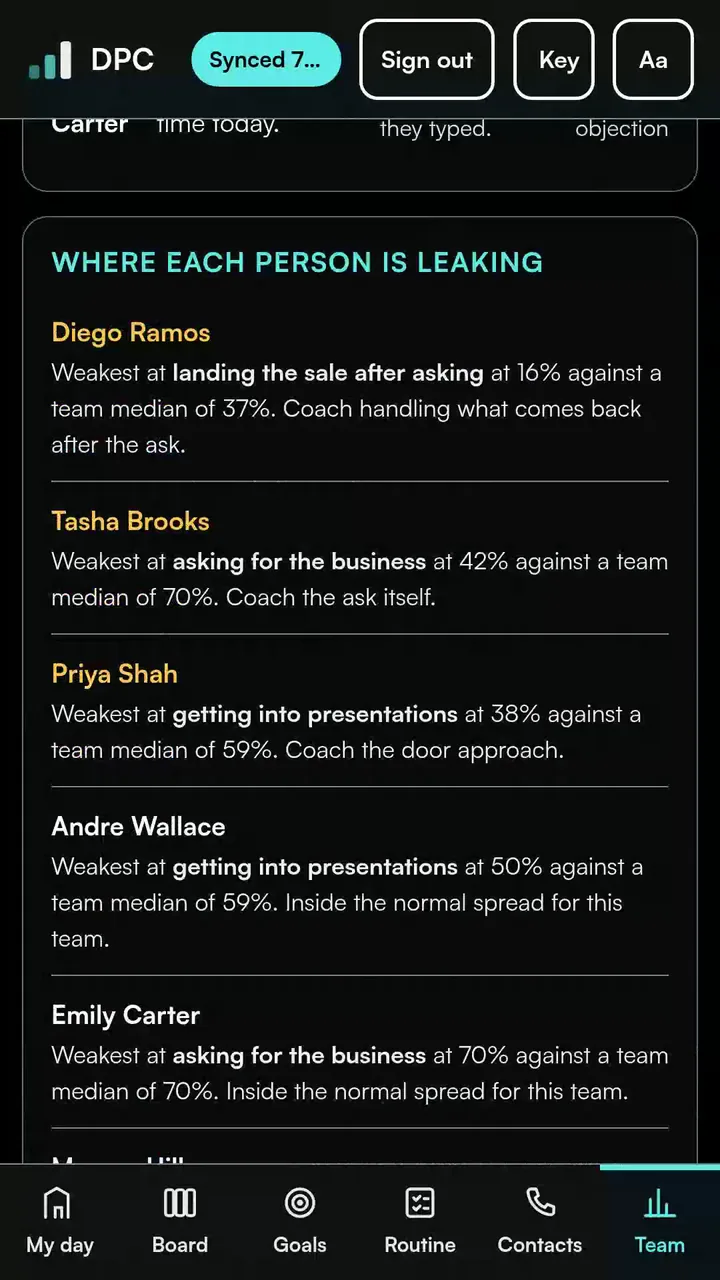
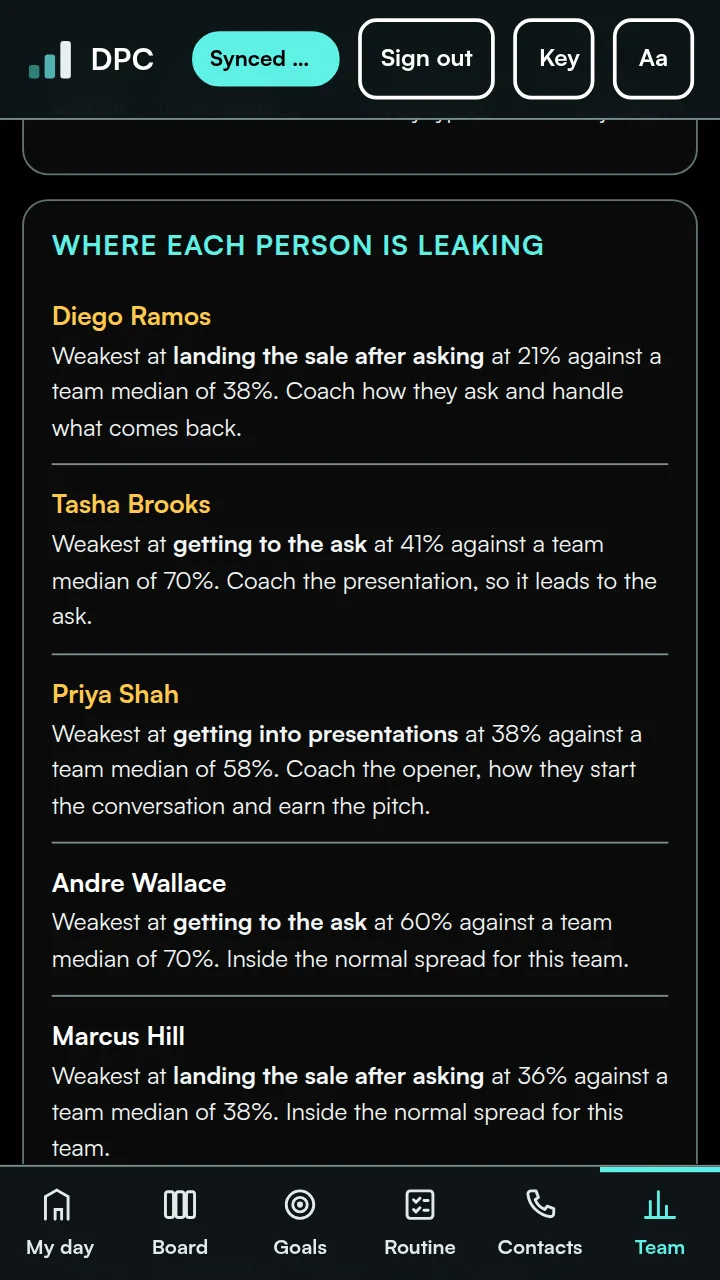
Accurate callback alert wording, new leaks screenshot

diff --git a/index.html b/index.html
@@ -56,7 +56,7 @@
       </div>
     </div>
     <div class="hero-shots">
-      <figure class="shot shot-back"><img src="./assets/app/mgr_leaks.webp" alt="Manager screen listing where each rep is leaking, compared to the team median, with what to coach" width="720" height="1280"><figcaption>Manager</figcaption></figure>
+      <figure class="shot shot-back"><img src="./assets/app/mgr_leaks.webp?v=2" alt="Manager screen listing where each rep is leaking, compared to the team median, with what to coach" width="720" height="1280"><figcaption>Manager</figcaption></figure>
       <figure class="shot shot-front"><img src="./assets/app/rep_today.webp" alt="Rep screen with today's counters for made contact, presentation, close and sale" width="720" height="1280"><figcaption>Rep</figcaption></figure>
     </div>
   </div>
@@ -172,10 +172,10 @@
   <div class="wrap split">
     <div class="split-txt">
       <p class="eyebrow">Callbacks and follow ups</p>
-      <h2>Told to come back at 6? It makes sure they do.</h2>
+      <h2>Told to come back at 6? It reminds them and tells them when to head back.</h2>
       <p class="lede">For door to door teams, a callback is a sale waiting to happen. Reps pin the spot, set the time and add a name and number in a few taps.</p>
       <ul class="ticks">
-        <li>An alert 10 minutes before and at the time, even with the app closed</li>
+        <li>With alerts turned on, an alert 10 minutes before and at the time</li>
         <li>A leave by alert based on how far away they are</li>
         <li>A warning when they are too far to make it on time</li>
         <li>One tap fills in an on my way text to the homeowner</li>
@@ -229,7 +229,7 @@
     </div>
     <div class="mgr-grid">
       <figure class="mshot"><img src="./assets/app/mgr_funnel.webp" alt="Team funnel with active reps, D, P, C, S and D per sale" width="720" height="1280" decoding="async"><figcaption><b>Team funnel</b>Every step for the whole team, with D per sale.</figcaption></figure>
-      <figure class="mshot"><img src="./assets/app/mgr_leaks.webp" alt="Where each person is leaking, with what to coach" width="720" height="1280" decoding="async"><figcaption><b>Where each person is leaking</b>Their weakest step, against the team median, with what to coach.</figcaption></figure>
+      <figure class="mshot"><img src="./assets/app/mgr_leaks.webp?v=2" alt="Where each person is leaking, with what to coach" width="720" height="1280" decoding="async"><figcaption><b>Where each person is leaking</b>Their weakest step, against the team median, with what to coach.</figcaption></figure>
       <figure class="mshot"><img src="./assets/app/mgr_asked.webp" alt="What reps asked the game board today, with topic counts" width="720" height="1280" decoding="async"><figcaption><b>What reps asked the board</b>Who looked for help today, and on what topics.</figcaption></figure>
       <figure class="mshot"><img src="./assets/app/mgr_goals.webp" alt="Team goals: reps behind on pace at the top" width="720" height="1280" decoding="async"><figcaption><b>Goals and routines</b>Who is behind on pace, whose goals need work, who finished their routine.</figcaption></figure>
       <figure class="mshot"><img src="./assets/app/mgr_alerts.webp" alt="Team alerts at 8:30 PM and a Sunday noon roundup, and reps ranked" width="720" height="1280" decoding="async"><figcaption><b>Alerts</b>8:30 PM when reps are under your daily standard, plus a Sunday noon roundup.</figcaption></figure>
@@ -283,7 +283,7 @@
       <h2 class="rv d1">One app for the rep, the manager and the owner.</h2>
     </div>
     <div class="roles">
-      <article class="role rv"><h3>Reps</h3><ul><li>One tap per conversation, offline</li><li>Sees where their own day is breaking down</li><li>Game board search: in bounds or out of bounds</li><li>A.I.R. and Feel Felt Found prep</li><li>Callback alerts, even with the phone locked</li><li>SMART goals and income pace</li></ul></article>
+      <article class="role rv"><h3>Reps</h3><ul><li>One tap per conversation, offline</li><li>Sees where their own day is breaking down</li><li>Game board search: in bounds or out of bounds</li><li>A.I.R. and Feel Felt Found prep</li><li>Callback alerts, once turned on</li><li>SMART goals and income pace</li></ul></article>
       <article class="role rv d1"><h3>Managers</h3><ul><li>Every rep's funnel, live</li><li>Your standards, your flags</li><li>Reports for any period, text or export</li><li>See who is working on which skill</li><li>A fair record of coaching talks</li></ul></article>
       <article class="role rv d2"><h3>Owners</h3><ul><li>A personal key for every person</li><li>Text each rep their key</li><li>See who has not signed in yet</li><li>Turn off anyone's key in one tap</li></ul></article>
     </div>
@@ -291,7 +291,7 @@
       <button class="btn btn-ghost" type="button" id="fxBtn" aria-expanded="false" aria-controls="fxAll">See every feature</button>
     </div>
     <div class="fx" id="fxAll" hidden>
-      <div class="fx-col"><h3>For reps</h3><ul><li><b>One tap counters</b><span>Tap the furthest step reached and every earlier step counts too. Undo reverses a tap, and minus fixes a single box.</span></li><li><b>Game board search</b><span>Type a struggle that keeps coming back, like "they keep saying not interested." Get the one thing to try next, plus a quick Yes or Not yet self check that rechecks after ten more conversations.</span></li><li><b>Pace, Pitch, Attitude read</b><span>The app reads the funnel and tells the rep which of the three levers is costing them sales.</span></li><li><b>Objection prep</b><span>A.I.R. and Feel Felt Found answers to practice before the next conversation, not scripts to read in the middle of one. Retail teams also get 15 and 5 and Turn and Return.</span></li><li><b>Training board</b><span>Short, searchable lessons: the ten step sale flow, know your product, and ten work habits like Be Prepared, Know Your Why and Focus on Controllables.</span></li><li><b>SMART goals and goal helper</b><span>Reps start from what they no longer want, turn it into a 30, 60 or 90 day goal, and watch each SMART letter light up as the goal gets sharper.</span></li><li><b>Income pace</b><span>Enter an income target and see the daily conversations, presentations and asks needed to hit it, and how improving one step cuts the work required.</span></li><li><b>Daily routine check ins</b><span>Reps plan their day around their goals and check off what they actually did.</span></li><li><b>Callback alerts</b><span>Save a return address or pinned spot and a time. Alerts arrive ten minutes before and right on time, even with the phone locked.</span></li><li><b>Leave by warning</b><span>Optional. Estimates walking time back to a callback so reps leave in time. It is not location tracking for managers.</span></li><li><b>Followups</b><span>Log a promise with a due time and how to reach them: go back, call or text, with a name and number.</span></li><li><b>Time off requests</b><span>Reps enter a day or a range, and see Seen by your manager when it is acknowledged.</span></li><li><b>Works anywhere</b><span>Offline taps sync when signal returns. No app store, any phone, saved to the home screen. High contrast mode for bright sun.</span></li></ul></div>
+      <div class="fx-col"><h3>For reps</h3><ul><li><b>One tap counters</b><span>Tap the furthest step reached and every earlier step counts too. Undo reverses a tap, and minus fixes a single box.</span></li><li><b>Game board search</b><span>Type a struggle that keeps coming back, like "they keep saying not interested." Get the one thing to try next, plus a quick Yes or Not yet self check that rechecks after ten more conversations.</span></li><li><b>Pace, Pitch, Attitude read</b><span>The app reads the funnel and tells the rep which of the three levers is costing them sales.</span></li><li><b>Objection prep</b><span>A.I.R. and Feel Felt Found answers to practice before the next conversation, not scripts to read in the middle of one. Retail teams also get 15 and 5 and Turn and Return.</span></li><li><b>Training board</b><span>Short, searchable lessons: the ten step sale flow, know your product, and ten work habits like Be Prepared, Know Your Why and Focus on Controllables.</span></li><li><b>SMART goals and goal helper</b><span>Reps start from what they no longer want, turn it into a 30, 60 or 90 day goal, and watch each SMART letter light up as the goal gets sharper.</span></li><li><b>Income pace</b><span>Enter an income target and see the daily conversations, presentations and asks needed to hit it, and how improving one step cuts the work required.</span></li><li><b>Daily routine check ins</b><span>Reps plan their day around their goals and check off what they actually did.</span></li><li><b>Callback alerts</b><span>Save a return address or pinned spot and a time. With alerts turned on, they arrive ten minutes before and right on time.</span></li><li><b>Leave by warning</b><span>Optional. Estimates walking time back to a callback so reps leave in time. It is not location tracking for managers.</span></li><li><b>Followups</b><span>Log a promise with a due time and how to reach them: go back, call or text, with a name and number.</span></li><li><b>Time off requests</b><span>Reps enter a day or a range, and see Seen by your manager when it is acknowledged.</span></li><li><b>Works anywhere</b><span>Offline taps sync when signal returns. No app store, any phone, saved to the home screen. High contrast mode for bright sun.</span></li></ul></div>
       <div class="fx-col"><h3>For managers</h3><ul><li><b>Live team board</b><span>Every rep's numbers and funnel, live, for today, this week or any range.</span></li><li><b>Your standards, your flags</b><span>Set minimum sales per week, contacts per day, contacts per sale and how many weeks before a flag. New teams start blank, so nothing is judged until you decide.</span></li><li><b>Attention flags and alerts</b><span>Reps under standard get flagged. Opt in alerts at 8:30 PM Monday through Saturday and a weekly roundup Sunday at noon.</span></li><li><b>Reports in one tap</b><span>Today, this week so far, last week, last two full weeks, this month or last month. Text it, email it, save a PDF or export a CSV.</span></li><li><b>Who is trying to improve</b><span>See which coaching topics each rep is working on, without reading their private words. Reps who search and practice stand out from reps who do not.</span></li><li><b>Skill or circumstances</b><span>The app separates problems a rep controls from ones they do not, like weather or territory, so you coach the right thing.</span></li><li><b>Fair rep log</b><span>Record wins, complaints and coaching talks with dates. The rep sees each entry and can add their side, and repeated patterns become clear.</span></li><li><b>Goal intake</b><span>Paste a rep's goals or upload a PDF, Word file or photo. The app sorts personal, financial and business goals and lets you correct them before saving.</span></li><li><b>Who needs help first</b><span>Goals and routines put the reps who need you at the top, each with a plain next action.</span></li><li><b>Audited edits</b><span>Fix a rep's numbers when needed, with every manager edit recorded.</span></li></ul></div>
       <div class="fx-col"><h3>For owners</h3><ul><li><b>Personal keys</b><span>Every manager and rep gets their own key. Remove anyone from any phone, and it takes effect even on offline phones when they reconnect.</span></li><li><b>Turn off a key</b><span>Turn off a rep's key in one tap. Their numbers stay in your reports.</span></li><li><b>See who is signed in</b><span>Your key list shows who has signed in and who has not yet, so you know who is actually on board.</span></li><li><b>Your data stays yours</b><span>Licensed to your team only, with owner control over every key.</span></li></ul></div>
     </div>
